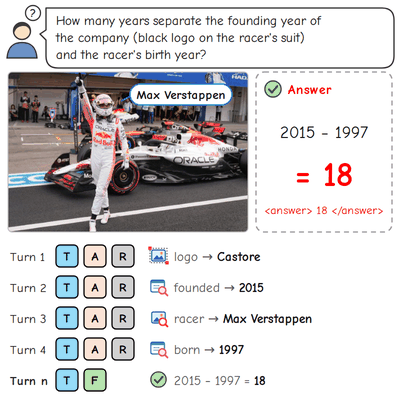
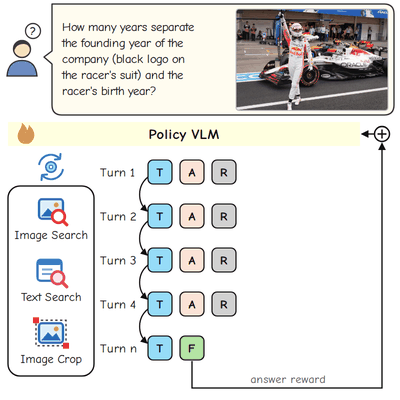
Rest selected thumbnails on their architecture diagrams
Looped-DiT and SenseNova-MARS now show an architecture diagram that
comes alive on hover. The MARS animation runs its reasoning trajectory
through the Figure 3 pipeline and zooms into the racer photo to crop
the logo. Also link the CVPR version of Mask Grounding and mark the
MARS CVPR Highlight with a star.

diff --git a/index.html b/index.html
@@ -30,6 +30,7 @@
 <symbol id="icon-model" viewBox="0 0 24 24"><path d="m12 3 9 5v8l-9 5-9-5V8l9-5ZM3 8l9 5 9-5M12 13v8M7.5 5.5l9 5"/></symbol>
 <symbol id="icon-project" viewBox="0 0 24 24"><rect x="3" y="4" width="18" height="16" rx="2"/><path d="M3 9h18M7 6.5h.01M10 6.5h.01M8 13h8M8 16h5"/></symbol>
 <symbol id="icon-list" viewBox="0 0 24 24"><path d="M9 6h12M9 12h12M9 18h12M3 6h1M3 12h1M3 18h1"/></symbol>
+<symbol id="icon-star" viewBox="0 0 24 24"><path d="m12 2.8 2.83 5.73 6.32.92-4.57 4.46 1.08 6.3L12 17.24l-5.66 2.97 1.08-6.3-4.57-4.46 6.32-.92L12 2.8Z"/></symbol>
 </defs>
 </svg>
 <a class="skip-link" href="#research">Skip to research</a>
@@ -63,7 +64,7 @@
 <p aria-live="polite" class="sr-only" id="filter-status" role="status"></p>
 </div><div class="papers" id="publications">
 <article aria-labelledby="looped-dit-title" class="paper hl" id="looped-dit">
-<a aria-label="View the full Looped Diffusion Transformer results figure" class="thumb" data-anim="assets/looped-dit-anim.gif" href="assets/looped-dit-fig1.png"><img alt="The same prompt rendered at loop depth 1 to 4; the text becomes correct by loop 4." decoding="async" height="400" loading="eager" src="assets/looped-dit-thumb.png" width="400"/></a>
+<a aria-label="View the full Looped Diffusion Transformer results figure" class="thumb" data-anim="assets/looped-dit-anim.gif" href="assets/looped-dit-fig1.png"><img alt="Looped-DiT architecture: pre-loop blocks, shared middle blocks looped N times, and post-loop blocks that decode the image, with slots for loops 1 to 4." decoding="async" height="400" loading="eager" src="assets/looped-dit-arch.png" width="400"/></a>
 <div class="body">
 <h3 class="t" id="looped-dit-title"><a href="#looped-dit">Looped Diffusion Transformer</a></h3>
 <!-- TODO: full author list once the preprint is public -->
@@ -96,11 +97,11 @@
 </div>
 </article>
 <article aria-labelledby="sensenova-mars-title" class="paper hl" id="sensenova-mars">
-<a aria-label="View SenseNova-MARS: Empowering Multimodal Agentic Reasoning and Search via Reinforcement Learning" class="thumb" data-anim="assets/mars-anim.gif" href="https://arxiv.org/abs/2512.24330"><img alt="SenseNova-MARS answers a question about a racing photo over several turns: it crops the logo on the racer's suit, searches for the company's founding year and the racer's birth year, and answers 18." decoding="async" height="400" loading="lazy" src="assets/mars-thumb.png" width="400"/></a>
+<a aria-label="View SenseNova-MARS: Empowering Multimodal Agentic Reasoning and Search via Reinforcement Learning" class="thumb" data-anim="assets/mars-anim.gif" href="https://arxiv.org/abs/2512.24330"><img alt="SenseNova-MARS: a policy VLM answers a visual question over several turns of thinking, tool calls to image search, text search and image crop, and tool responses, and is trained with an answer reward." decoding="async" height="400" loading="lazy" src="assets/mars-thumb.png" width="400"/></a>
 <div class="body">
 <h3 class="t" id="sensenova-mars-title"><a href="https://arxiv.org/abs/2512.24330">SenseNova-MARS: Empowering Multimodal Agentic Reasoning and Search via Reinforcement Learning</a></h3>
 <p class="a"><b>Yong Xien Chng</b><span class="sup">*</span>, Tao Hu<span class="sup">*</span>, Wenwen Tong<span class="sup">*</span>, Xueheng Li, Jiandong Chen, Haojia Yu, Jiefan Lu, Hewei Guo, Hanming Deng, Chengjun Xie, Gao Huang, Dahua Lin, Lewei Lu <span class="contribution-note">(* equal contribution)</span></p>
-<p class="v">CVPR, 2026 <strong class="venue-note">(Highlight)</strong></p>
+<p class="v">CVPR, 2026 <strong class="venue-note"><svg aria-hidden="true" class="icon" focusable="false" height="16" viewBox="0 0 24 24" width="16"><use href="#icon-star"></use></svg>Highlight</strong></p>
 <p class="l"><a href="https://openaccess.thecvf.com/content/CVPR2026/html/Chng_SenseSearch_Empowering_Vision-Language_Models_with_High-Resolution_Agentic_Search-Reasoning_via_Reinforcement_CVPR_2026_paper.html" title="SenseSearch: CVPR 2026 conference paper"><svg class="icon" width="16" height="16" viewBox="0 0 24 24" aria-hidden="true" focusable="false"><use href="#icon-paper"></use></svg><span>CVPR paper</span></a><a href="https://arxiv.org/abs/2512.24330"><svg aria-hidden="true" class="icon" focusable="false" height="16" viewBox="0 0 24 24" width="16"><use href="#icon-paper"></use></svg><span>arXiv</span></a><a href="https://github.com/OpenSenseNova/SenseNova-MARS"><svg aria-hidden="true" class="icon" focusable="false" height="16" viewBox="0 0 24 24" width="16"><use href="#icon-code"></use></svg><span>Code</span></a><a href="https://huggingface.co/sensenova/SenseNova-MARS-32B"><svg aria-hidden="true" class="icon" focusable="false" height="16" viewBox="0 0 24 24" width="16"><use href="#icon-model"></use></svg><span>Models</span></a></p>
 <p class="d">A VLM that searches the web, crops the image and reasons, all in one interleaved loop learned with RL. The 32B model beats Gemini-3-Pro and GPT-5.2 on multimodal search, and we release HR-MMSearch, a high-resolution search benchmark.</p>
 </div>
@@ -172,7 +173,7 @@
 <h3 class="t" id="mask-grounding-title"><a href="https://arxiv.org/abs/2312.12198">Mask Grounding for Referring Image Segmentation</a></h3>
 <p class="a"><b>Yong Xien Chng</b>, Henry Zheng, Yizeng Han, Xuchong Qiu, Gao Huang</p>
 <p class="v">CVPR, 2024</p>
-<p class="l"><a href="https://arxiv.org/abs/2312.12198"><svg aria-hidden="true" class="icon" focusable="false" height="16" viewBox="0 0 24 24" width="16"><use href="#icon-paper"></use></svg><span>arXiv</span></a><a href="https://github.com/yxchng/mask-grounding"><svg aria-hidden="true" class="icon" focusable="false" height="16" viewBox="0 0 24 24" width="16"><use href="#icon-code"></use></svg><span>Code</span></a></p>
+<p class="l"><a href="https://openaccess.thecvf.com/content/CVPR2024/html/Chng_Mask_Grounding_for_Referring_Image_Segmentation_CVPR_2024_paper.html"><svg aria-hidden="true" class="icon" focusable="false" height="16" viewBox="0 0 24 24" width="16"><use href="#icon-paper"></use></svg><span>CVPR paper</span></a><a href="https://arxiv.org/abs/2312.12198"><svg aria-hidden="true" class="icon" focusable="false" height="16" viewBox="0 0 24 24" width="16"><use href="#icon-paper"></use></svg><span>arXiv</span></a><a href="https://github.com/yxchng/mask-grounding"><svg aria-hidden="true" class="icon" focusable="false" height="16" viewBox="0 0 24 24" width="16"><use href="#icon-code"></use></svg><span>Code</span></a></p>
 <p class="d">Teach the model which word refers to which object, and referring segmentation gets better. A simple auxiliary task that lifts prior methods and sets the state of the art on RefCOCO, RefCOCO+ and G-Ref.</p>
 </div>
 </article>

diff --git a/styles.css b/styles.css
@@ -91,7 +91,8 @@ h2 { font-size: 22px; line-height: 1.3; font-weight: 400; }
 .paper .a b { color: var(--ink); font-weight: 700; }
 .contribution-note { margin-left: 4px; font-size: 11px; font-style: italic; white-space: nowrap; }
 .paper .v { font-size: 13px; margin-top: 3px; }
-.venue-note { color: var(--highlight-ink); font-weight: 700; }
+.venue-note { color: var(--highlight-ink); font-weight: 700; white-space: nowrap; }
+.venue-note .icon { width: 14px; height: 14px; margin: 0 3px 0 2px; vertical-align: -2px; fill: currentColor; stroke-width: 1.2; }
 .paper .l { display: flex; flex-wrap: wrap; gap: 7px; font-size: 12px; margin-top: 9px; }
 .paper .l a { min-height: 30px; padding: 5px 9px; gap: 5px; }
 .paper .l .icon { width: 14px; height: 14px; }

diff --git a/assets/SOURCES.md b/assets/SOURCES.md
@@ -9,6 +9,6 @@ Figures are presented alongside links to their respective papers. Existing asset
 
 Hover animations for the selected papers redraw each paper's own figures and animate them:
 
-- `looped-dit-anim.gif`: the Looped-DiT overview (Figure 3) and the loop ×1–×4 samples of Figure 1(c), with the misspelled words underlined at each loop.
-- `mars-anim.gif`, `mars-thumb.png`: the reasoning trajectory of Figure 2 (racer photo and logo crop), https://arxiv.org/abs/2512.24330, laid out with the turn structure of Figure 3.
+- `looped-dit-anim.gif`: the Looped-DiT overview (Figure 3) and the loop ×1–×4 samples of Figure 1(c), with the misspelled words underlined at each loop. `looped-dit-arch.png` is its first frame, the architecture diagram.
+- `mars-anim.gif`: the pipeline of Figure 3, https://arxiv.org/abs/2512.24330, running the reasoning trajectory of Figure 2 (racer photo and logo crop). `mars-thumb.png` is its first frame, the pipeline diagram.
 - `mask-grounding-anim.gif`: Mask Grounding in Figure 2(b) (image, mask and predicted word), https://arxiv.org/abs/2312.12198
